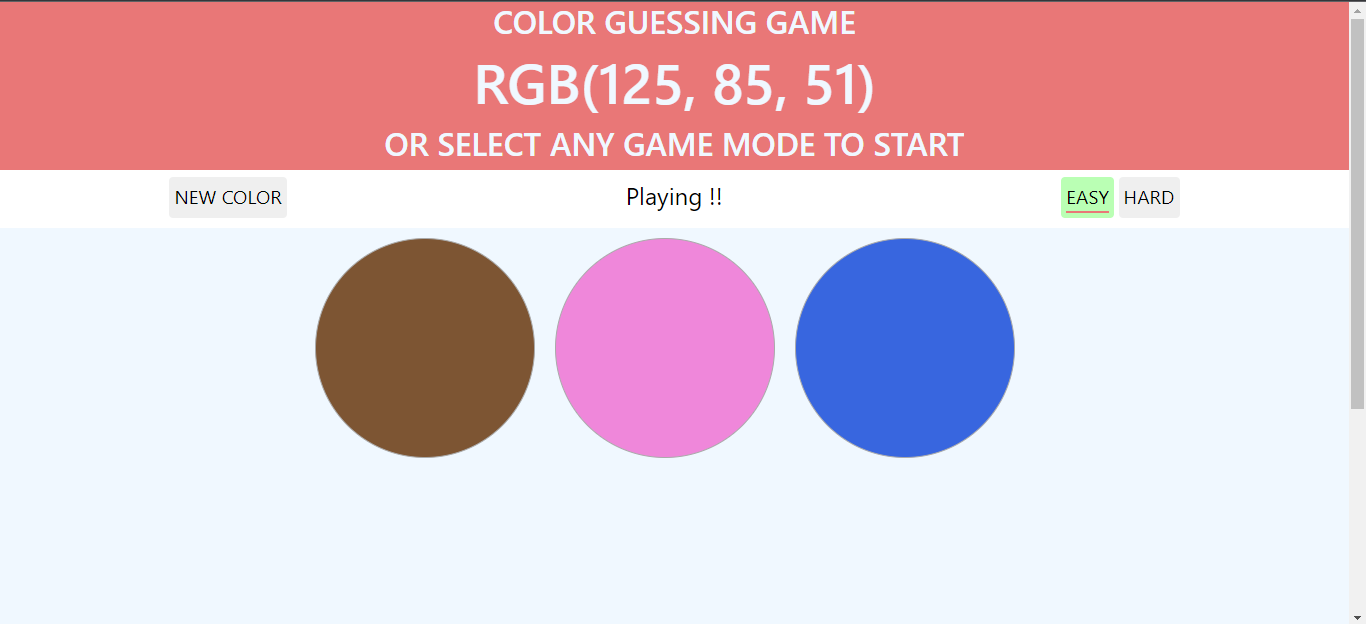
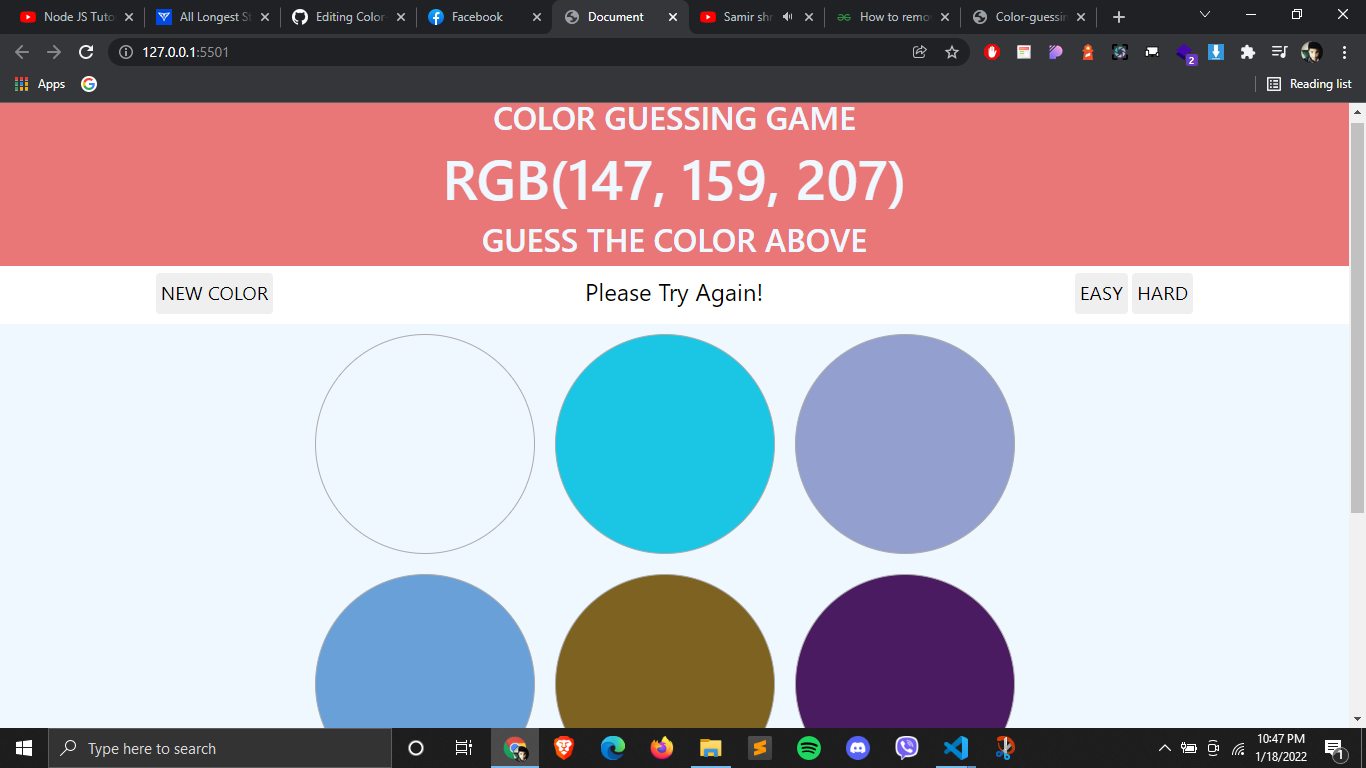
guess text and 10 ss added

diff --git a/script.js b/script.js
@@ -93,7 +93,7 @@ easyBtn.addEventListener('click', function() {
     boxCount = 3;     // box value
     easyBtn.style.backgroundColor = "#BAFFB4";      // changing bg color of easy button on click
     hardBtn.removeAttribute("style");     // removing bg color of hard button if any
-
+    gameHeader.lastElementChild.textContent = "Guess the color above";
     const easyGame = new ColorGame(boxCount);       // creating colorgame object with box value 3
     easyGame.colorPicker();
 });
@@ -104,7 +104,7 @@ hardBtn.addEventListener('click', function() {
     boxCount = 6;     // box value
     easyBtn.removeAttribute("style");      // changing bg color of easy button on click
     hardBtn.style.backgroundColor = "#BAFFB4";     // removing bg color of hard button if any
-
+    gameHeader.lastElementChild.textContent = "Guess the color above";
     const hardGame = new ColorGame(boxCount);       // creating colorgame object with box value 6
     hardGame.colorPicker();
 });
@@ -112,6 +112,7 @@ hardBtn.addEventListener('click', function() {
 // play button clicked
 playBtn.addEventListener('click', function(){
     playingGame = true;
+    gameHeader.lastElementChild.textContent = "Guess the color above";
     const newGame = new ColorGame(boxCount);
     newGame.newGame();
 });

diff --git a/index.html b/index.html
@@ -18,7 +18,7 @@
         <div class="rgbQuestion">
             <h1 id="rgbColor">Press New color</h1>
         </div>
-        <h1>or select any game mode to start</h1>
+        <h1 class="guessText">or select any game mode to start</h1>
     </div>
 
     <!-- play and game mode section -->
